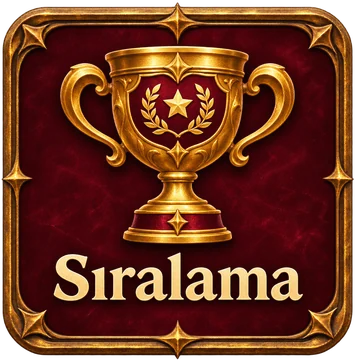
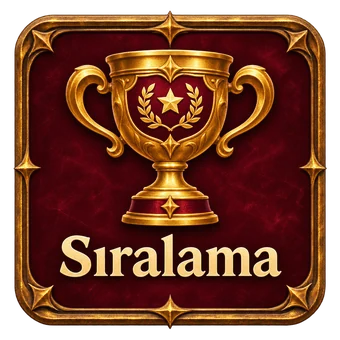
Home: equal, smaller art tiles
Claude-Session: https://claude.ai/code/session_0167oXY6ZwbEeBCvj8jYoKrE

diff --git a/src/components/Home.vue b/src/components/Home.vue
@@ -423,8 +423,9 @@ export default {
 }
 .quick {
   display: grid;
-  grid-template-columns: 1fr 1fr;
-  gap: 10px;
+  grid-template-columns: repeat(2, min(36vw, 150px));
+  justify-content: center;
+  gap: 18px;
   margin: 14px 0 6px;
 }
 .art-tile {
